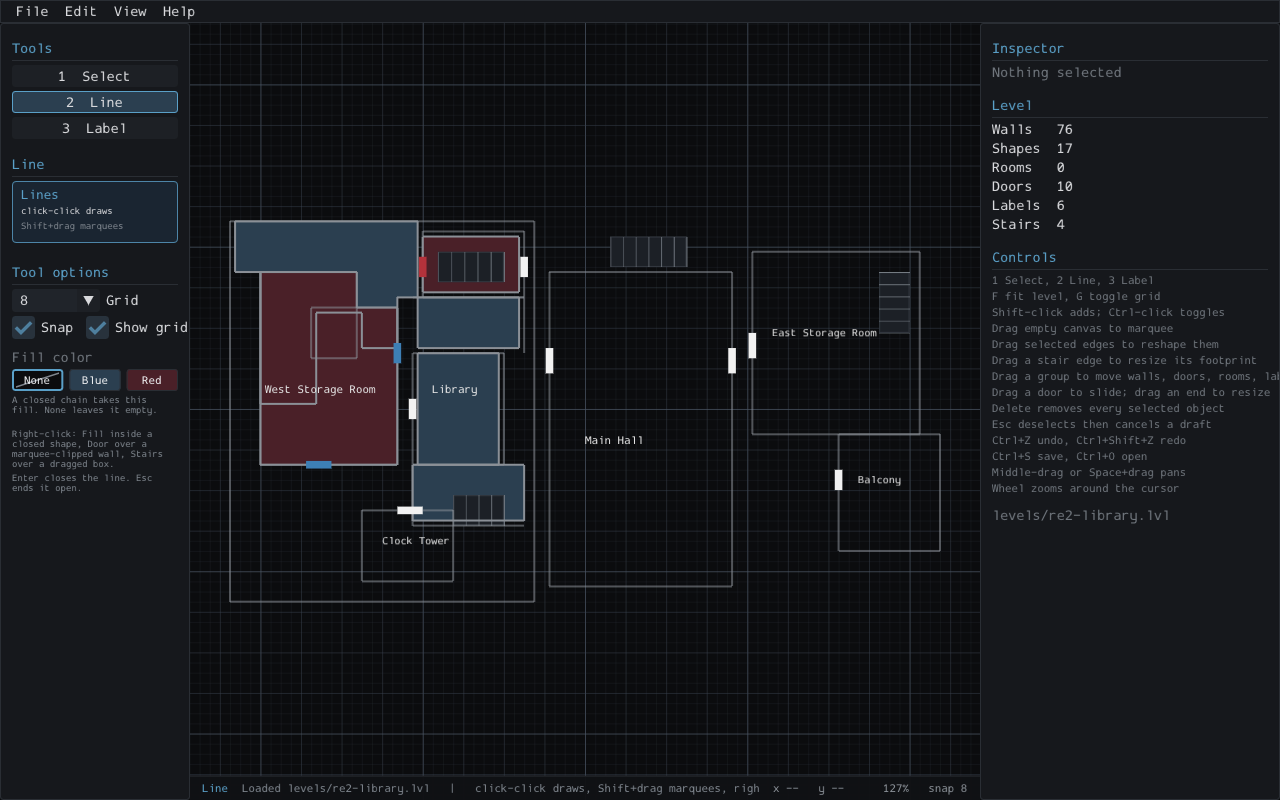
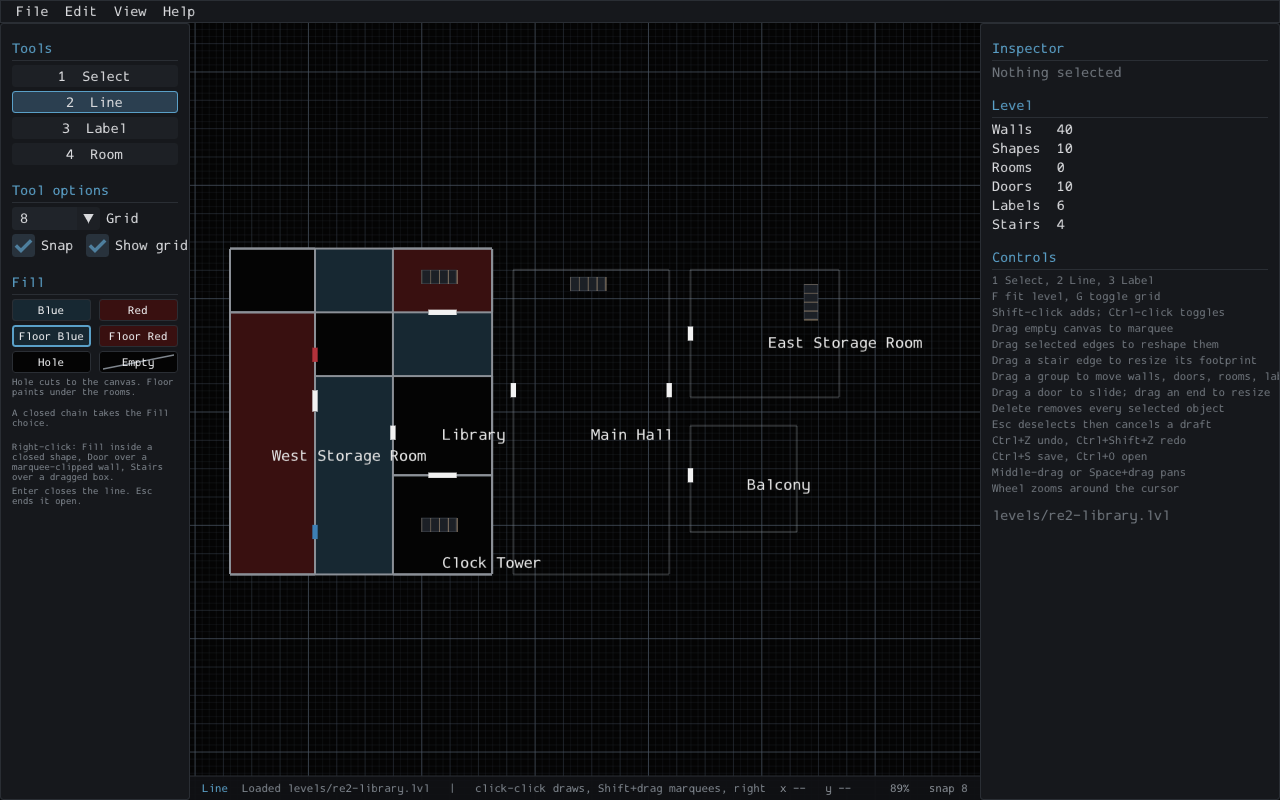
Build the reference map with the Room tool and matched fills

diff --git a/tools/check_map.py b/tools/check_map.py
@@ -14,8 +14,8 @@ import sys
 
 GRID = 4.0
 EXPECTED_COUNTS = {
-    "wall": 76,
-    "shape": 17,
+    "wall": 40,
+    "shape": 10,
     "room": 0,
     "door": 10,
     "label": 6,
@@ -86,14 +86,14 @@ def main() -> int:
                 break
 
     fills = sorted(fill for _closed, fill in data["shapes"].values() if fill)
-    if fills != [1, 1, 1, 1, 2, 2]:
-        failures.append(f"fills {fills} != four blue and two red")
+    if fills != [2, 2, 3, 5, 5, 5, 5, 6, 6, 6]:
+        failures.append(f"fills {fills} != two red, one floor, four holes, three empty")
     doors = sorted(color for color, _wall in data["doors"])
-    if doors != [0, 0, 0, 0, 0, 0, 0, 1, 2, 2]:
+    if doors != [0, 0, 0, 0, 0, 0, 0, 0, 1, 2]:
         failures.append(f"door colours {doors} != seven white, one red, two blue")
     open_shapes = sum(1 for closed, _fill in data["shapes"].values() if closed == 0)
-    if open_shapes != 2:
-        failures.append(f"{open_shapes} open shapes != 2")
+    if open_shapes != 0:
+        failures.append(f"{open_shapes} open shapes != 0")
     labels = [text for _x, _y, _size, text in data["labels"]]
     wanted = ["West Storage Room", "Library", "Main Hall",
               "East Storage Room", "Balcony", "Clock Tower"]

diff --git a/src/editor.c b/src/editor.c
@@ -3562,7 +3562,7 @@ Editor* editor_create(const char* startup_path) {
     e->show_grid = true;
     /* Floor Blue is the base of the reference map; the palette changes it. */
     e->shape_fill = SHAPE_FILL_FLOOR_BLUE;
-    e->label_size = 19.0f;
+    e->label_size = 10.0f;
     e->fit_pending = true;
     e->modal = MODAL_NONE;
     e->request_modal = MODAL_NONE;
